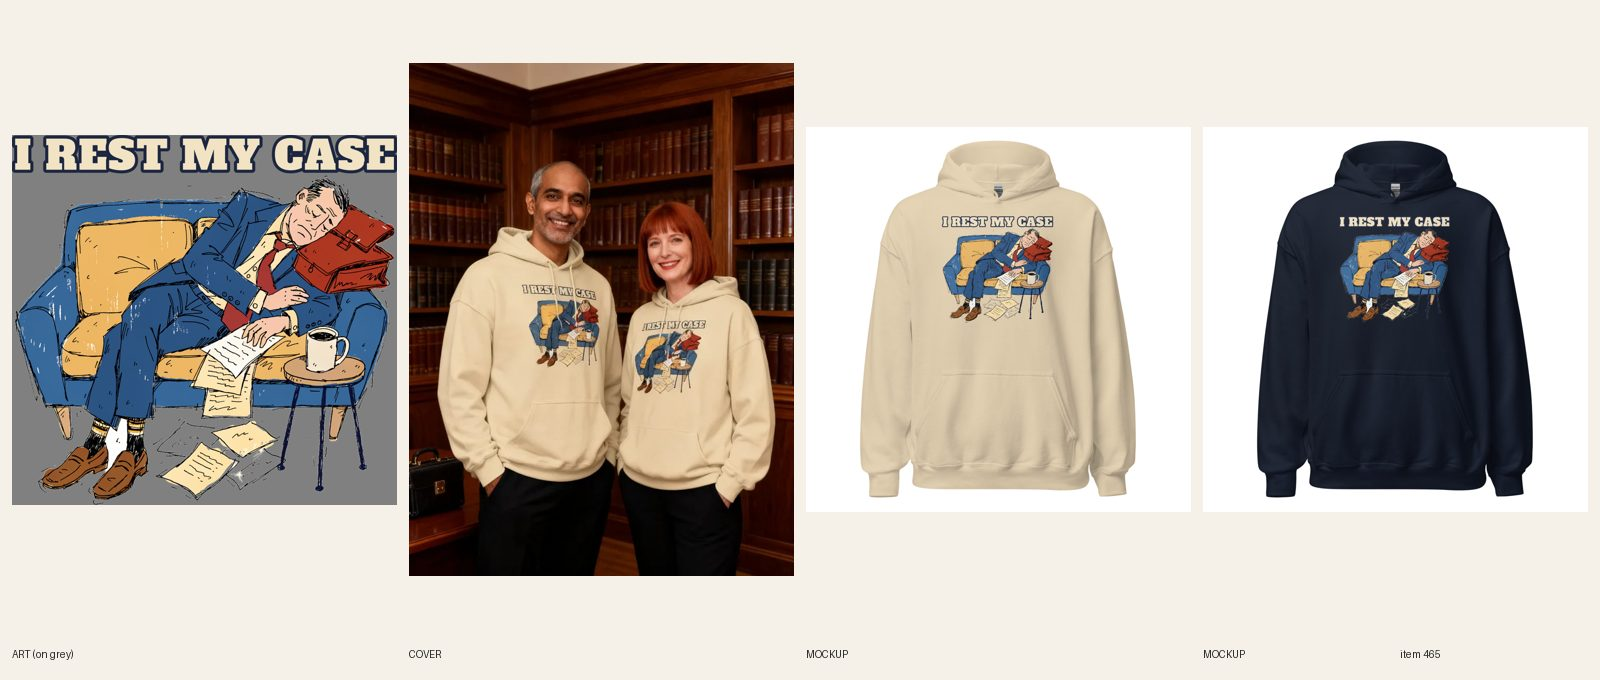
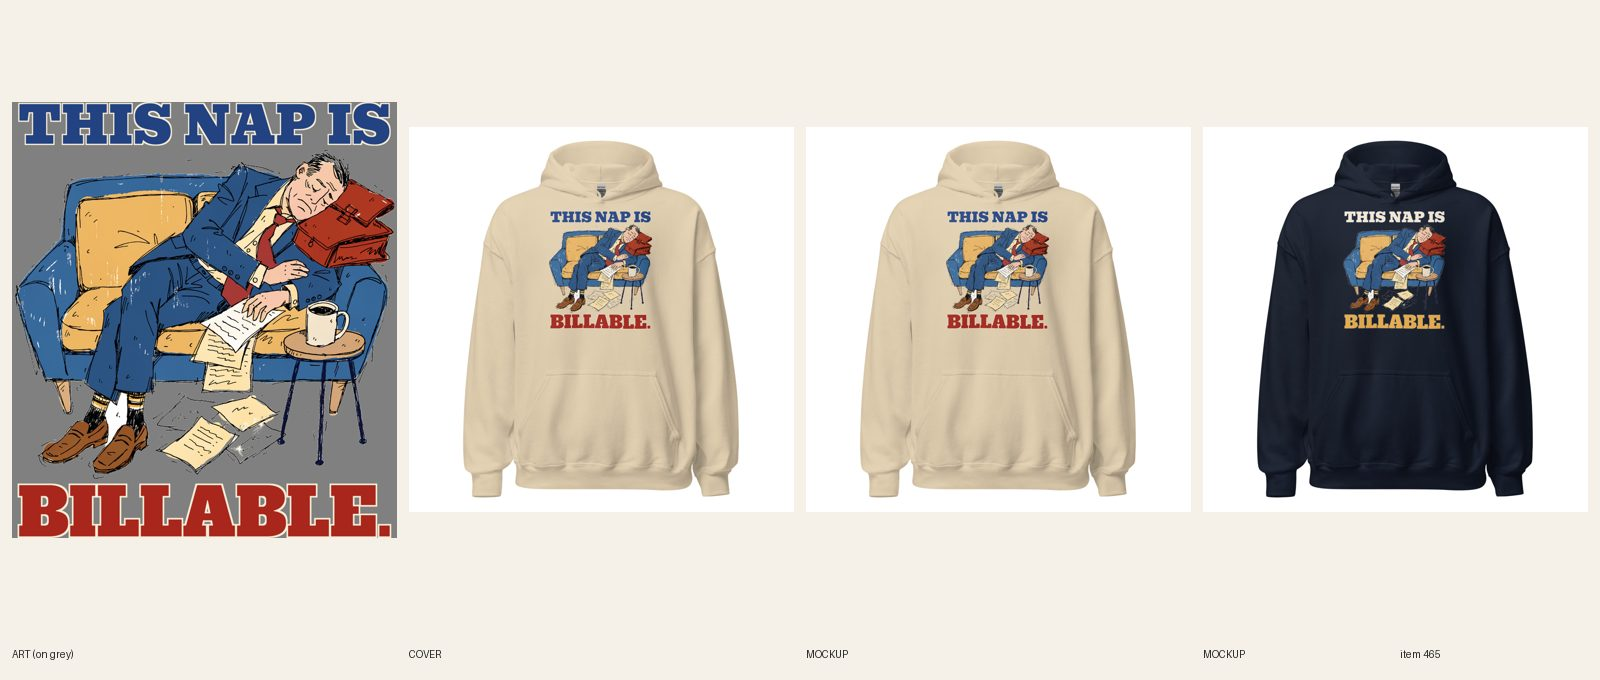
[C] review 465 (redo)
Claude-Session: https://claude.ai/code/session_01CCHcDj8LcJJ8qUPtKE3cvn

Changed region(s): [[0.0, 0.0926, 0.5, 0.8647], [0.8125, 0.3088, 0.9062, 0.4941], [0.5938, 0.3088, 0.6562, 0.4941]]

diff --git a/designs/lib.py b/designs/lib.py
@@ -1,0 +1,41 @@
+"""Lane C lockup helper: from designs.lib import *"""
+from PIL import Image, ImageDraw, ImageFont, ImageFilter
+FD = 'designs/fonts/'
+CREAM = (246, 236, 214, 255)
+F = dict(alfa='AlfaSlabOne-Regular.ttf', anton='Anton-Regular.ttf', bevan='Bevan-Regular.ttf', big='BigShouldersDisplay[wght].ttf', bowlby='BowlbyOne-Regular.ttf',
+         cinzel='Cinzel[wght].ttf', fraunces='Fraunces[SOFT,WONK,opsz,wght].ttf', oswald='Oswald[wght].ttf', playfair='PlayfairDisplay[wght].ttf',
+         playfairi='PlayfairDisplay-Italic[wght].ttf', rye='Rye-Regular.ttf', graduate='Graduate-Regular.ttf')
+VAR = dict(big=[900], cinzel=[900], fraunces=[9, 900, 60, 1], oswald=[700], playfair=[900], playfairi=[900])
+def line(text, font, wfrac, W, fill, key, kw=27, track=0):
+    ff = F[font]; var = VAR.get(font)
+    def mk(sz):
+        f = ImageFont.truetype(FD + ff, sz)
+        if var: f.set_variation_by_axes(var)
+        return f
+    f = mk(800); adv = [f.getlength(c) for c in text]; tot = sum(adv) + track * (len(text) - 1); size = int(800 * W * wfrac / tot)
+    f = mk(size); adv = [f.getlength(c) for c in text]; tr = int(track * size / 800)
+    asc, desc = f.getmetrics(); tot = int(sum(adv) + tr * (len(text) - 1)); pad = 80
+    im = Image.new('RGBA', (tot + 2 * pad, asc + desc + 2 * pad), (0, 0, 0, 0))
+    k = Image.new('L', im.size, 0); d = ImageDraw.Draw(k); x = pad
+    for c, a in zip(text, adv): d.text((x, pad), c, font=f, fill=255); x += a + tr
+    k = k.filter(ImageFilter.MaxFilter(kw)); im.paste(Image.new('RGBA', im.size, key), (0, 0), k)
+    d = ImageDraw.Draw(im); x = pad
+    for c, a in zip(text, adv): d.text((x, pad), c, font=f, fill=fill); x += a + tr
+    return im.crop(im.getbbox())
+def stack(lines, W, gap=24):
+    h = sum(l.height for l in lines) + gap * (len(lines) - 1); out = Image.new('RGBA', (W, h), (0, 0, 0, 0)); y = 0
+    for l in lines: out.alpha_composite(l, ((W - l.width) // 2, y)); y += l.height + gap
+    return out
+def lockup(art, W, top, bottom, name, bgs, g=36):
+    """art: RGBA image; top/bottom: list of line images; saves docs/print-files/<name>.png and previews on each bg"""
+    t = stack(top, W) if top else None; b = stack(bottom, W) if bottom else None
+    H = (t.height + g if t else 0) + art.height + (g + b.height if b else 0)
+    out = Image.new('RGBA', (W, H), (0, 0, 0, 0)); y = 0
+    if t: out.alpha_composite(t, (0, 0)); y = t.height + g
+    out.alpha_composite(art, ((W - art.width) // 2, y)); y += art.height + g
+    if b: out.alpha_composite(b, (0, y))
+    out.save(f'docs/print-files/{name}.png')
+    for tag, c in bgs.items():
+        bg = Image.new('RGBA', out.size, c); bg.alpha_composite(out); bg.convert('RGB').resize((600, int(600 * H / W))).save(f'designs/prev_{name}_{tag}.png')
+    return out
+def widths(*ls): return [l.width for l in ls]

diff --git a/designs/c465/make.py b/designs/c465/make.py
@@ -1,0 +1,9 @@
+import sys; sys.path.insert(0,'.')
+from designs.lib import *
+im=Image.open('docs/print-files/465-i-rest-my-case.png').convert('RGBA'); W=im.width
+art=im.crop((0,348,W,3163))
+NAVY=(34,66,130,255); RED=(168,38,28,255); MUST=(236,176,74,255); DK=(24,38,84,255)
+for tag,c1,k1,c2,k2,bg in (('sand',NAVY,CREAM,RED,CREAM,(214,196,160,255)),('navy',CREAM,DK,MUST,DK,(38,50,88,255))):
+    h1=line("THIS NAP IS",'bevan',0.97,W,c1,k1,kw=23,track=8); h2=line("BILLABLE.",'alfa',0.975,W,c2,k2,kw=29)
+    print(tag,'headline px',h1.width,'punch px',h2.width,'heights',h1.height,h2.height)
+    out=lockup(art,W,[h1],[h2],f'465-v2-billable-{tag}',{tag:bg}); print(out.size,out.height/out.width)

diff --git a/docs/pipeline/465-lawyer-hoodie-i-rest-my-case.md b/docs/pipeline/465-lawyer-hoodie-i-rest-my-case.md
@@ -1,4 +1,4 @@
-status: BUILDING [C] 2026-10-20 07:32
+status: REVIEW
 lane: C
 type: new
 id: 465
@@ -30,3 +30,4 @@ kd: 31
 - 2026-10-17 21:10 UTC builder [C]: REVIEW. Sync 12/12. Sheet docs/review/465.jpg. design-crops and variant-photo audit cover published products only: rerun when ACTIVE. Local cohesion audit not run (no spec file); copy checked by hand against the art. Cover is a director call: the man's drawstring passes between MY and CASE.
 - 2026-10-17 21:19 UTC director: LIVE. sheet seen: lawyer asleep on a couch, I REST MY CASE reads on Sand and Navy; unisex couple in a law library (drawstrings cross the line but every word reads). ACTIVE + Online Store, Headless, Google & YouTube; audit --handle PASS.
 - 2026-10-18 17:22 UTC director: QUALITY RESET grade C (new line + type), REDO. The product stays ACTIVE (same handle, URL, title keyword). 1. Line (R3.12, quality-reset 'Lines'): "I REST MY CASE": Groan pun that only describes the sleeping lawyer picture. Write 5 candidates, keep the one a stranger laughs at in 3 seconds without backstory; kill lines that only describe the picture; if none of the 5 is funny, PARK it. 2. Quality reset type bar (docs/backlog/quality-reset.md, 'The new bar'): headline at least 90% of the art width, heavy, colors pulled from the art; second line at least 45% of the headline's height, never a thin script on a dark or mid garment; use the lettering as a shape (arch, stacked lockup, words breaking into the art), not a plain bar above and a script line below; no font used on more than 1 in 6 of the last 30 designs. 3. Keep the art if it carries the new line, else one new illustration (R4/R5). New print means a new cover per R6.10, copy line one rewritten for the new joke (R8.3), and a fresh review sheet (R7.7). While quality-reset.md says PAUSED, only lane A builds, and only the samples step 2 names.
+- 2026-10-20 07:40 UTC builder [C]: REDO new line + type (grade C). 5 candidates, compared with Not Cheating. Improving My Lie., Sorry About Your Windshield. and Plot Twist: I Stayed In: "THIS NAP IS / BILLABLE." (kept: lawyers bill by the hour, the sleeper on the sofa is the joke, one read), "I REST MY CASE" (old groan pun), "OBJECTION: I'M ASLEEP", "NAPPING WITH PREJUDICE", "BRIEFLY UNAVAILABLE". Same sleeping-lawyer art. Measured ink widths (card 7h): headline THIS NAP IS 3185 px / punch BILLABLE. 3195 px (100.3%; punch also taller, 467 vs 375 px). Bevan headline, Alfa Slab One punch. Light-file (R5.3.8): Sand file 1090236655 has the headline navy with a cream keyline and the punch oxblood red; Navy file 1090236679 has the headline cream with a dark-navy keyline and the punch mustard (docs/print-files/465-v2-billable-sand.png / -navy.png); logged: light file Sand on file 1090236655, headline fill navy. Print 3290 x 3729, FW 1500 TOP 0, 12/12 relinked (verified on the API before REVIEW). 2 fronts replaced in place, read at phone size. Copy, FAQ and SEO rewritten for the new line. Plain product shot. fal $0.

diff --git a/docs/intake-log.md b/docs/intake-log.md
@@ -1,5 +1,6 @@
 RUNNING lane B since 2026-10-20 07:29 UTC
 RUNNING lane C since 2026-10-20 07:00 UTC
+2026-10-20 07:40 UTC — [C] Builder run: redid #465 Unisex Lawyer hoodie (new line + type: THIS NAP IS / BILLABLE., headline 3185 px / punch 3195 px, Bevan + Alfa Slab, same sleeping-lawyer art, Sand file 1090236655 + Navy file 1090236679, FW 1500 TOP 0, 12/12 relinked, 2 fronts replaced in place, copy + SEO updated). REVIEW. fal $0.
 2026-10-20 07:32 UTC — [C] Builder run: redid #334 Unisex Thanksgiving turkey hoodie (new line + type: NO TURKEY HERE. / JUST A GUY IN A HOODIE., headline 2951 px / punch 3049+3004 px, Alfa Slab + Oswald, same turkey art, Sand file 1090233279 + Navy file 1090233375, FW 1500 TOP 0, 12/12 relinked, 2 fronts replaced in place, copy + SEO updated). REVIEW. fal $0.
 2026-10-20 08:00 UTC — [D] Director run: inbox nothing new. 6 LIVE (cap): #252 #323 #365 #386 #395 #409, audit PASS (#323 SEO title added). Reviewed 25: 23 approved and held (8 stale titles fixed, #492 meta added; new cropped hoodie #697 approved, still DRAFT), 2 REDO (#455 dreidel faces read as fake Hebrew R5.3.9; #469 repeats #486 punch R13.3). Builder card 7i (retitle on every line redo). #513 to reference/best. Queue: 12 READY in each of A, B, C, E; no briefs needed. No Telegram (not a digest run).
 2026-10-20 07:22 UTC — [C] Builder run: redid #507 Women's National Park oversized hoodie round 2 (director note: scene edges broken up all round, scene 64% of the print width, Dust file 1090229058 + Navy file 1090229099, FW 1500 TOP 10, 12/12 relinked, 2 fronts replaced in place). REVIEW. fal $0.
